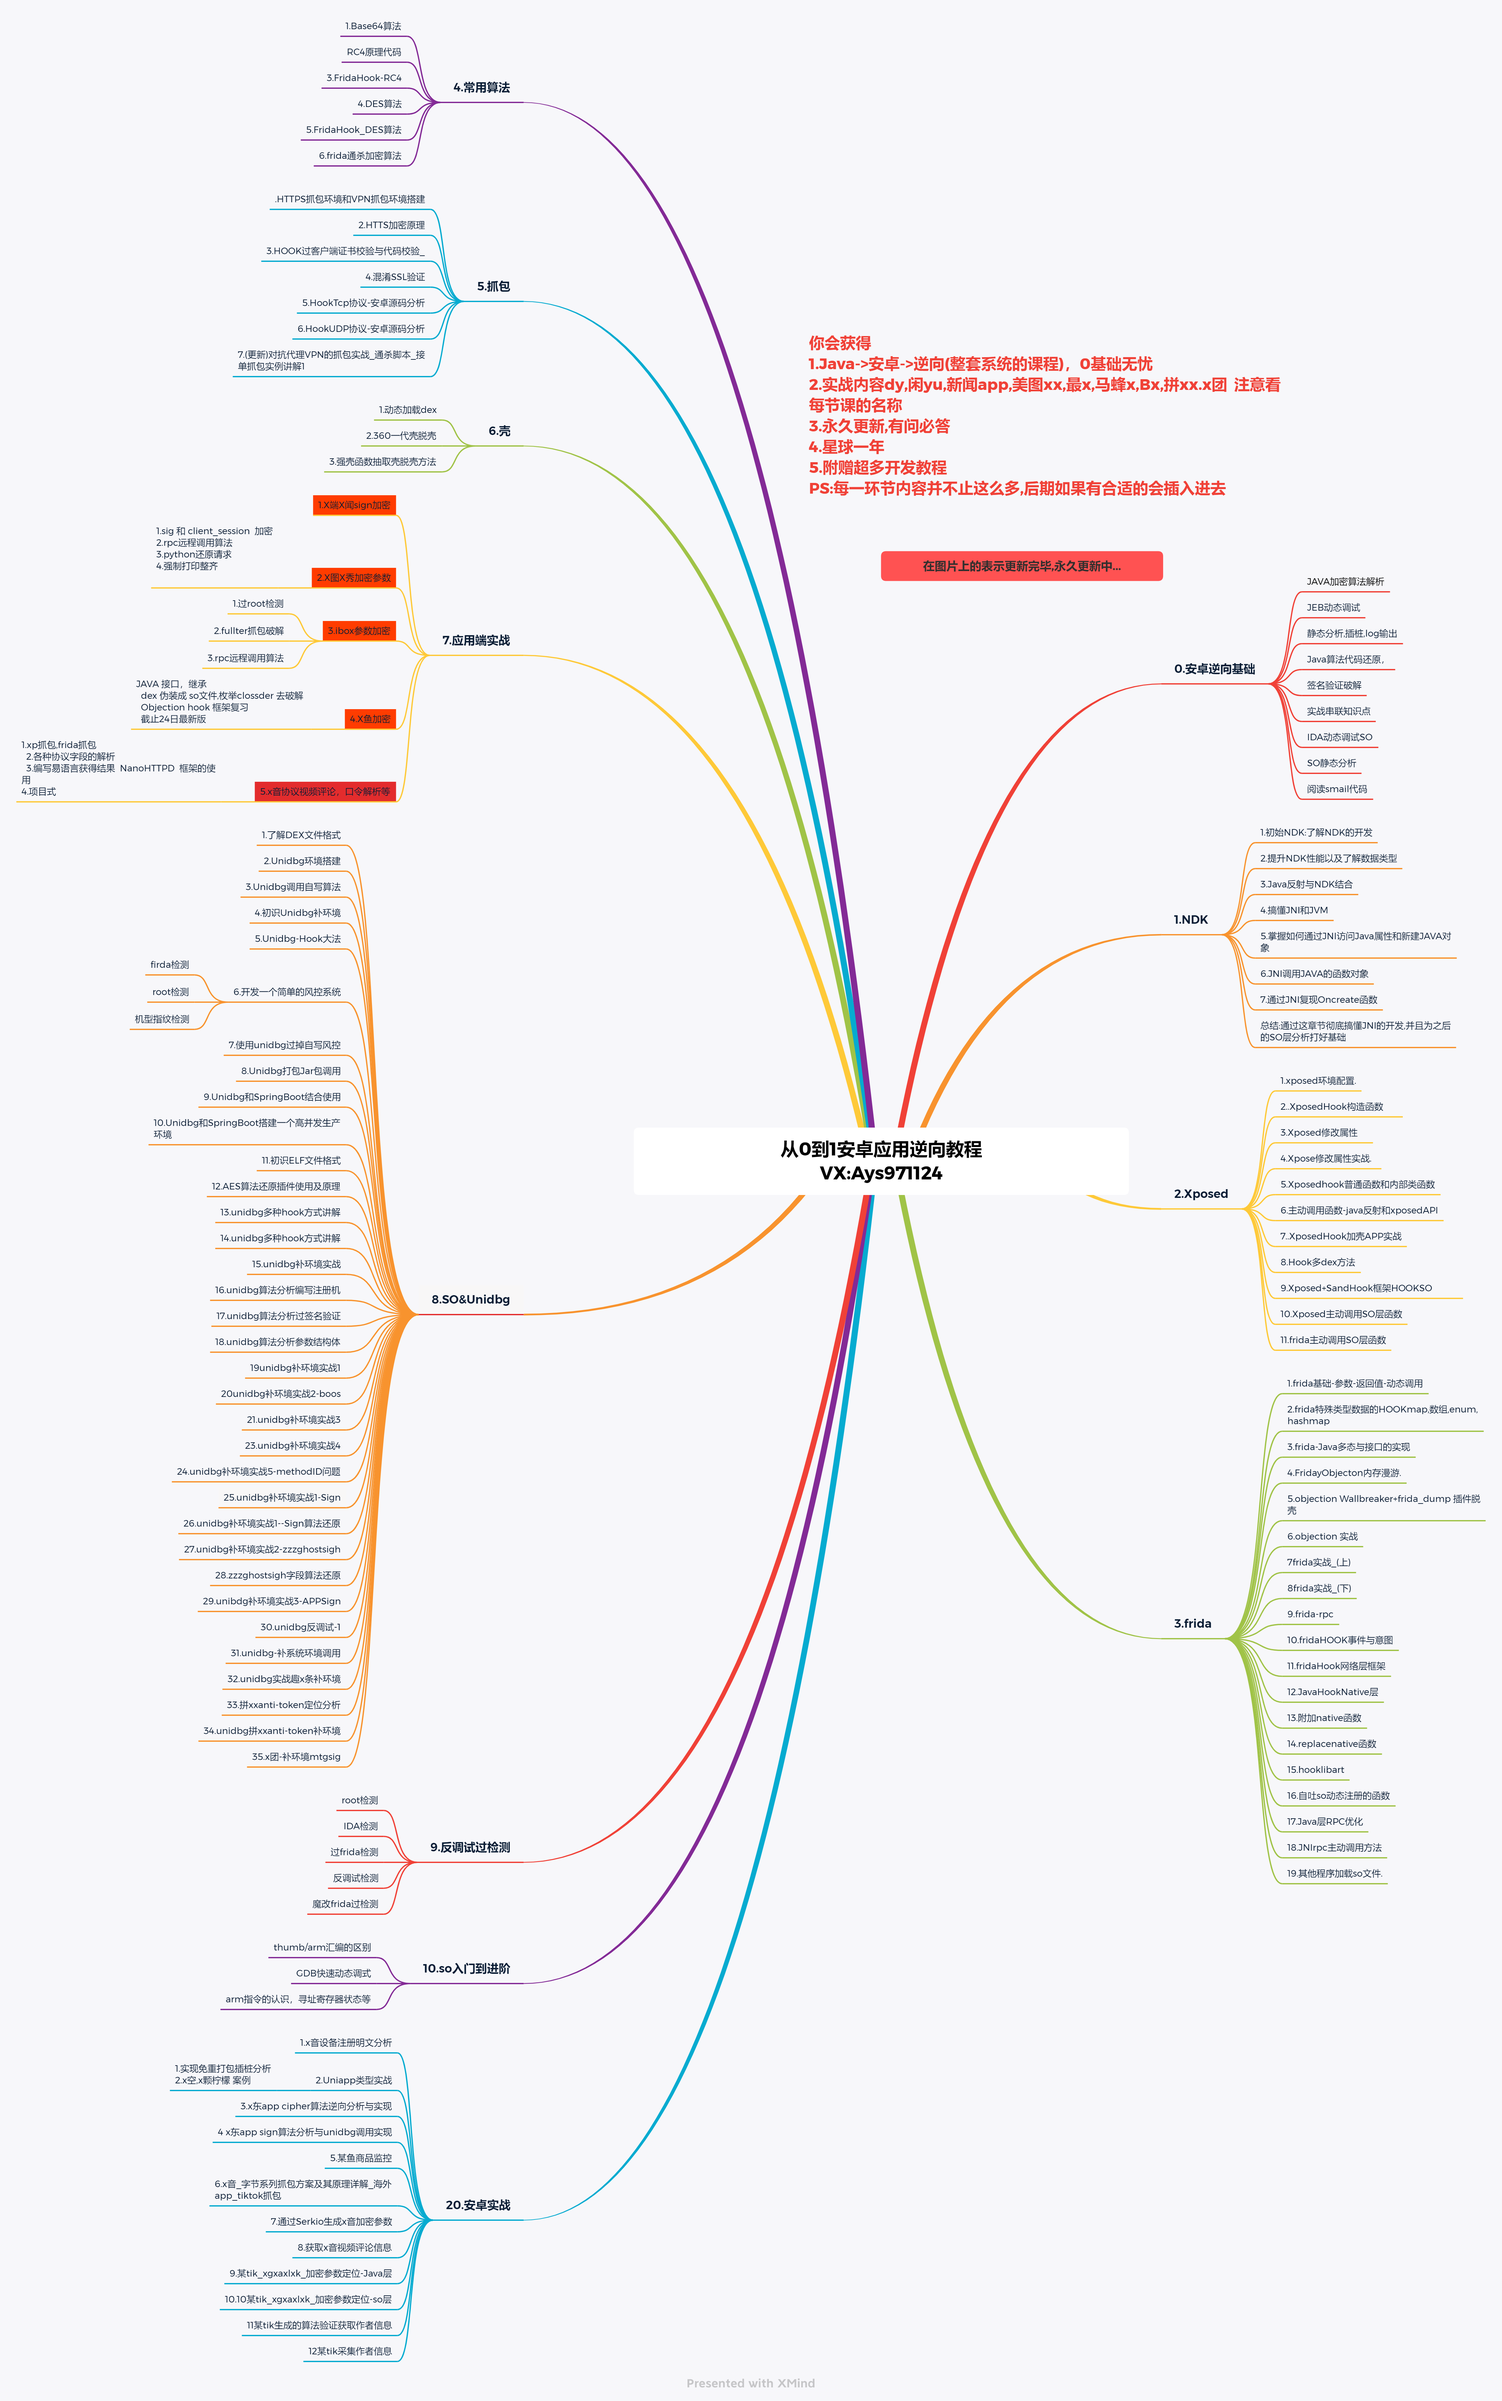
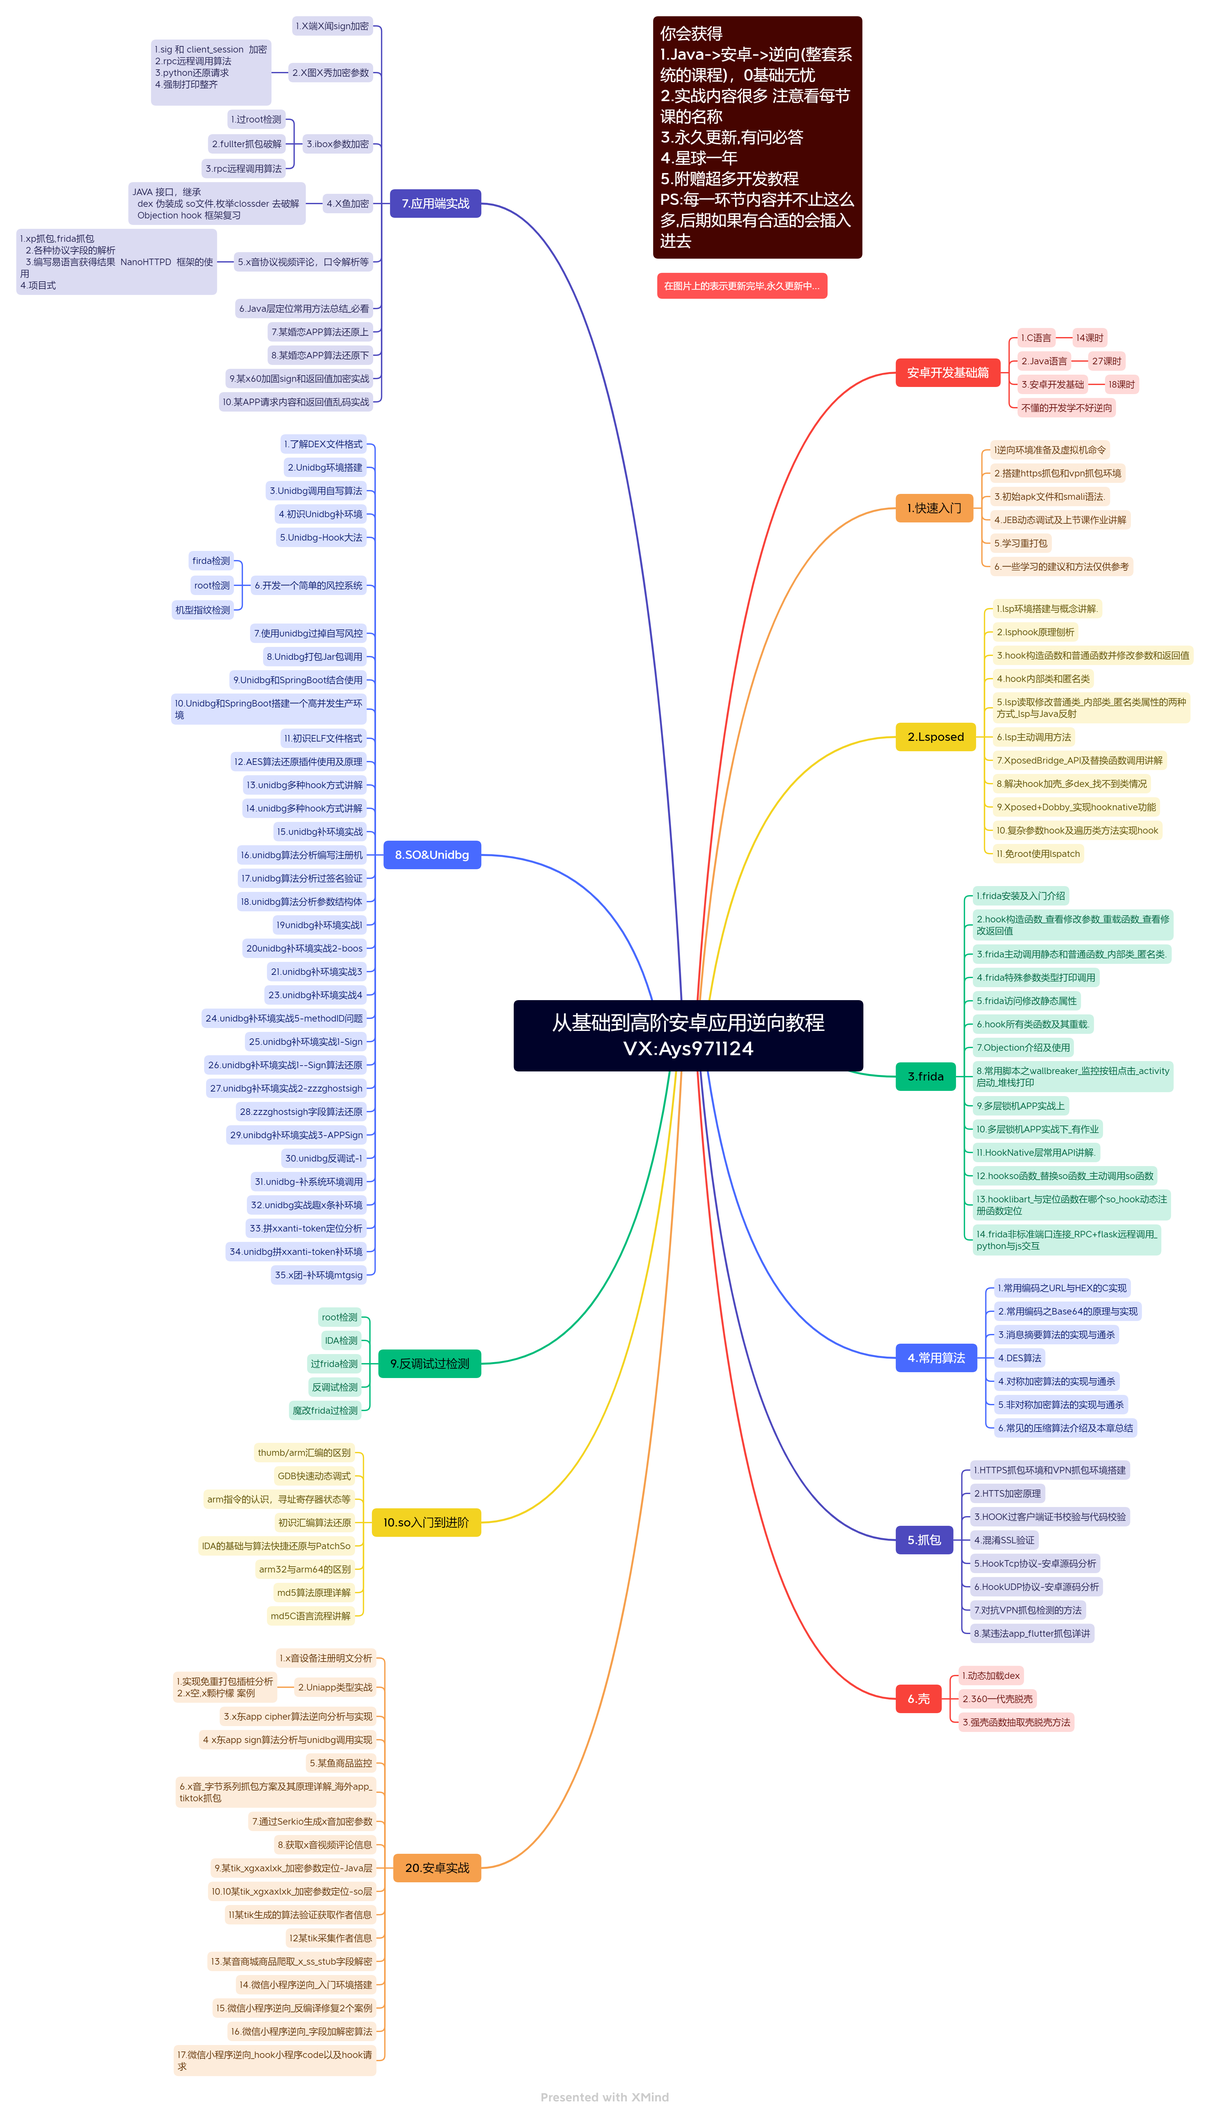
1

diff --git a/README.md b/README.md
@@ -36,13 +36,9 @@
 
 1. 每集大概20-30分钟.思维导图代表课程目录。学习时长自己判断哦
 
-</details>
+### ![从0到1安卓应用逆向教程](从0到1安卓应用逆向教程.png)
 
-### 课程目录_两张图片一起的
 
-![安卓逆向基础篇](安卓逆向基础篇.png)
-
-![安卓逆向进阶到高阶篇](安卓逆向进阶到高阶篇.png)
 
 ## 2.从0到1学习iOS逆向
 
